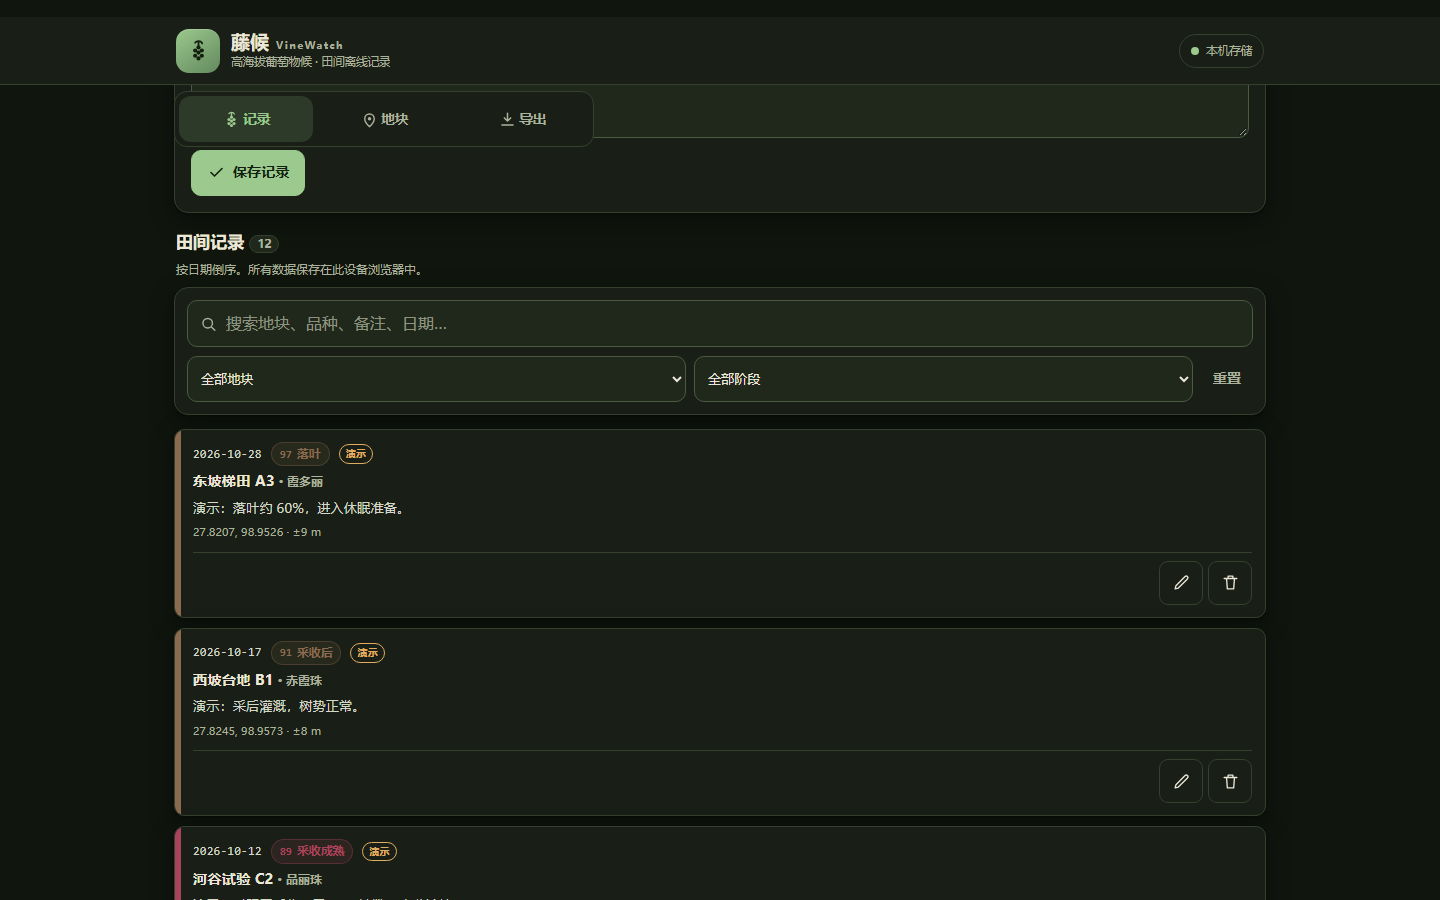
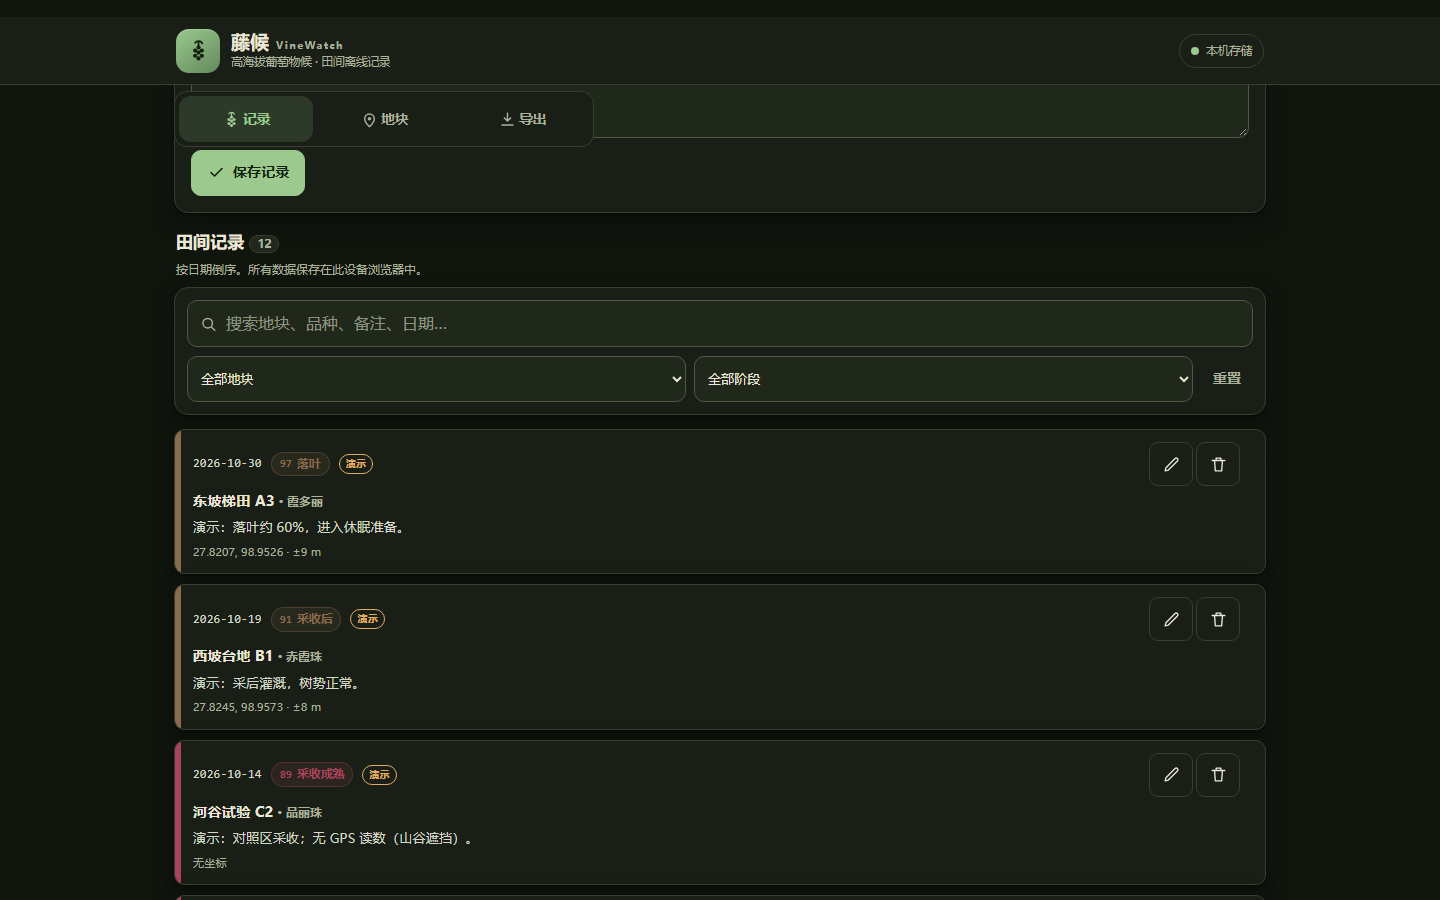
docs: refresh screenshots and changelog for the fixes

diff --git a/CHANGELOG.md b/CHANGELOG.md
@@ -2,6 +2,27 @@
 
 本项目遵循 [Keep a Changelog](https://keepachangelog.com/zh-CN/1.1.0/) 的结构，版本号遵循 [语义化版本](https://semver.org/lang/zh-CN/)。
 
+## [Unreleased]
+
+### Fixed
+
+- Import fingerprints now include location accuracy and a photo digest, so
+  records that differ only in their photo or GPS accuracy are kept.
+- The record list renders in pages of 200 with a "load more" control and a
+  true total, instead of silently stopping at 500.
+- `updateRecord` and `createRecord` validate the plot inside the same
+  transaction, so a record can no longer point at a deleted plot.
+- Concurrent edits in two tabs no longer overwrite each other's fields.
+- The same-day "latest stage" now follows `created_at` instead of the first
+  key returned by IndexedDB.
+- The service worker cache name is stamped with a build hash, so a new
+  deploy activates a fresh cache; `src/*.js` was dropped from the precache
+  list because the build only ships the bundle.
+- CSV export prefixes text starting with `=`, `+`, `@` or `-` with an
+  apostrophe to stop Excel formula injection.
+- GeoJSON export reports how many records without coordinates were skipped;
+  HEIC files get their own error message.
+
 ## [0.1.0] - 2026-11-17
 
 ### 新增
